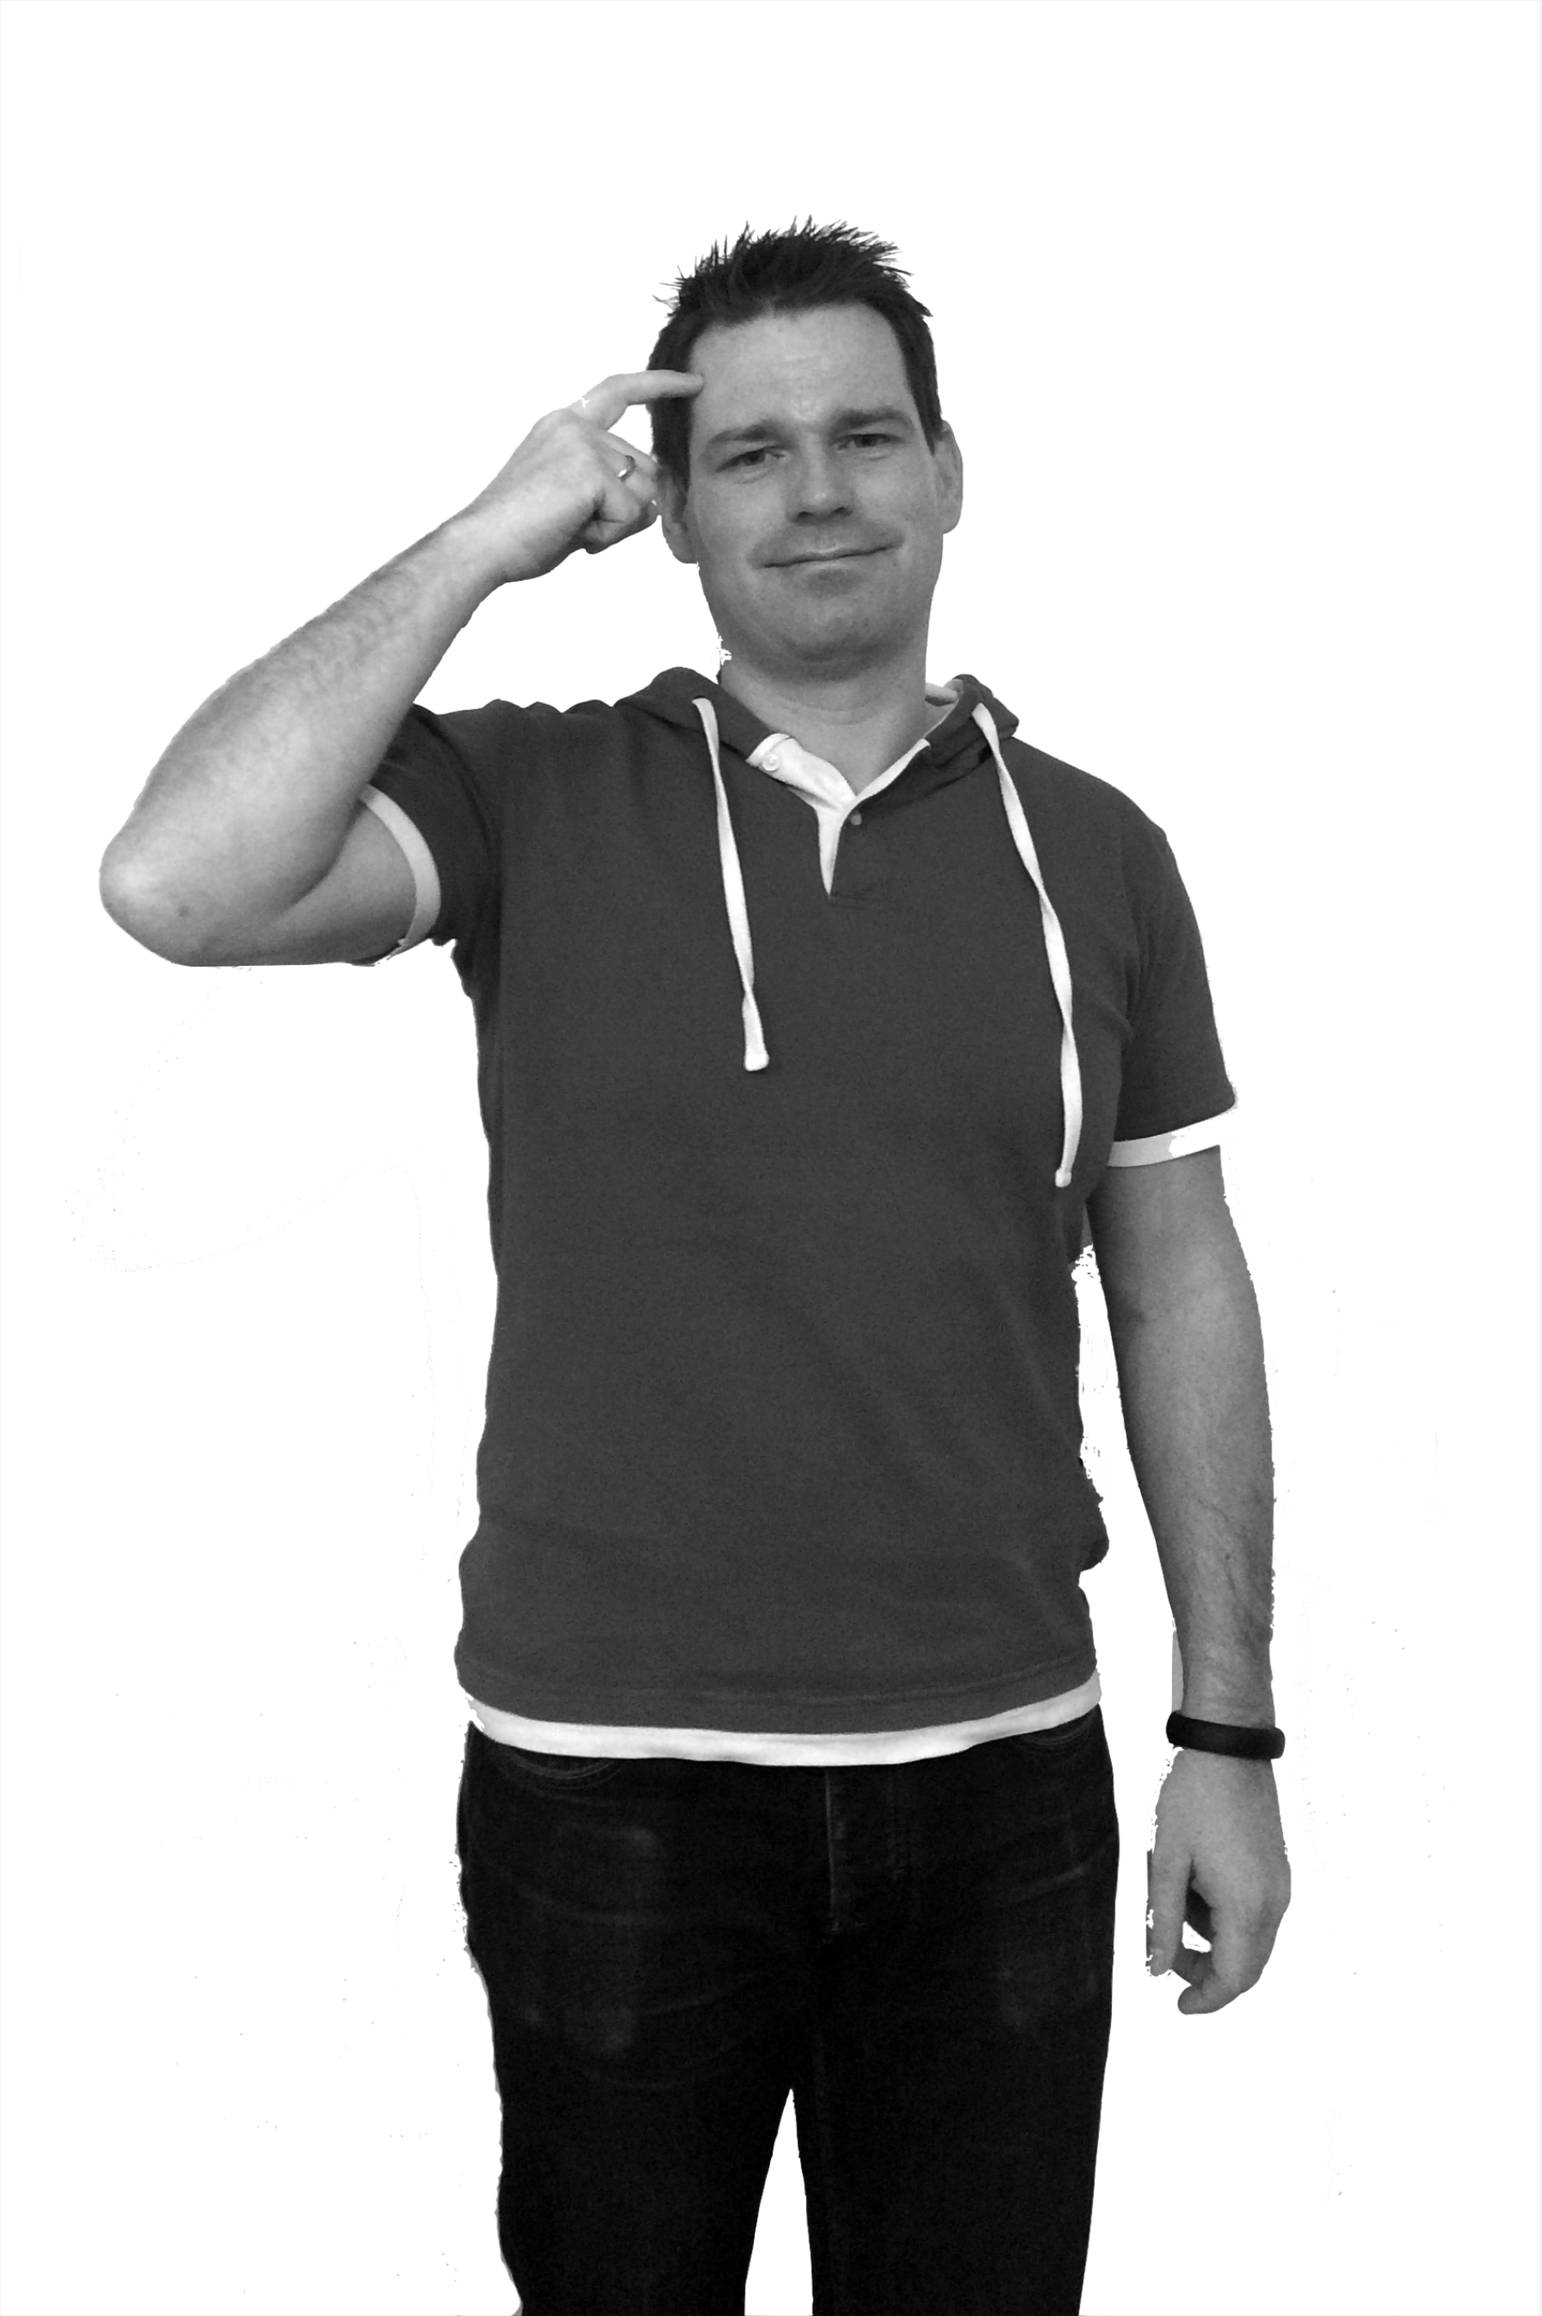
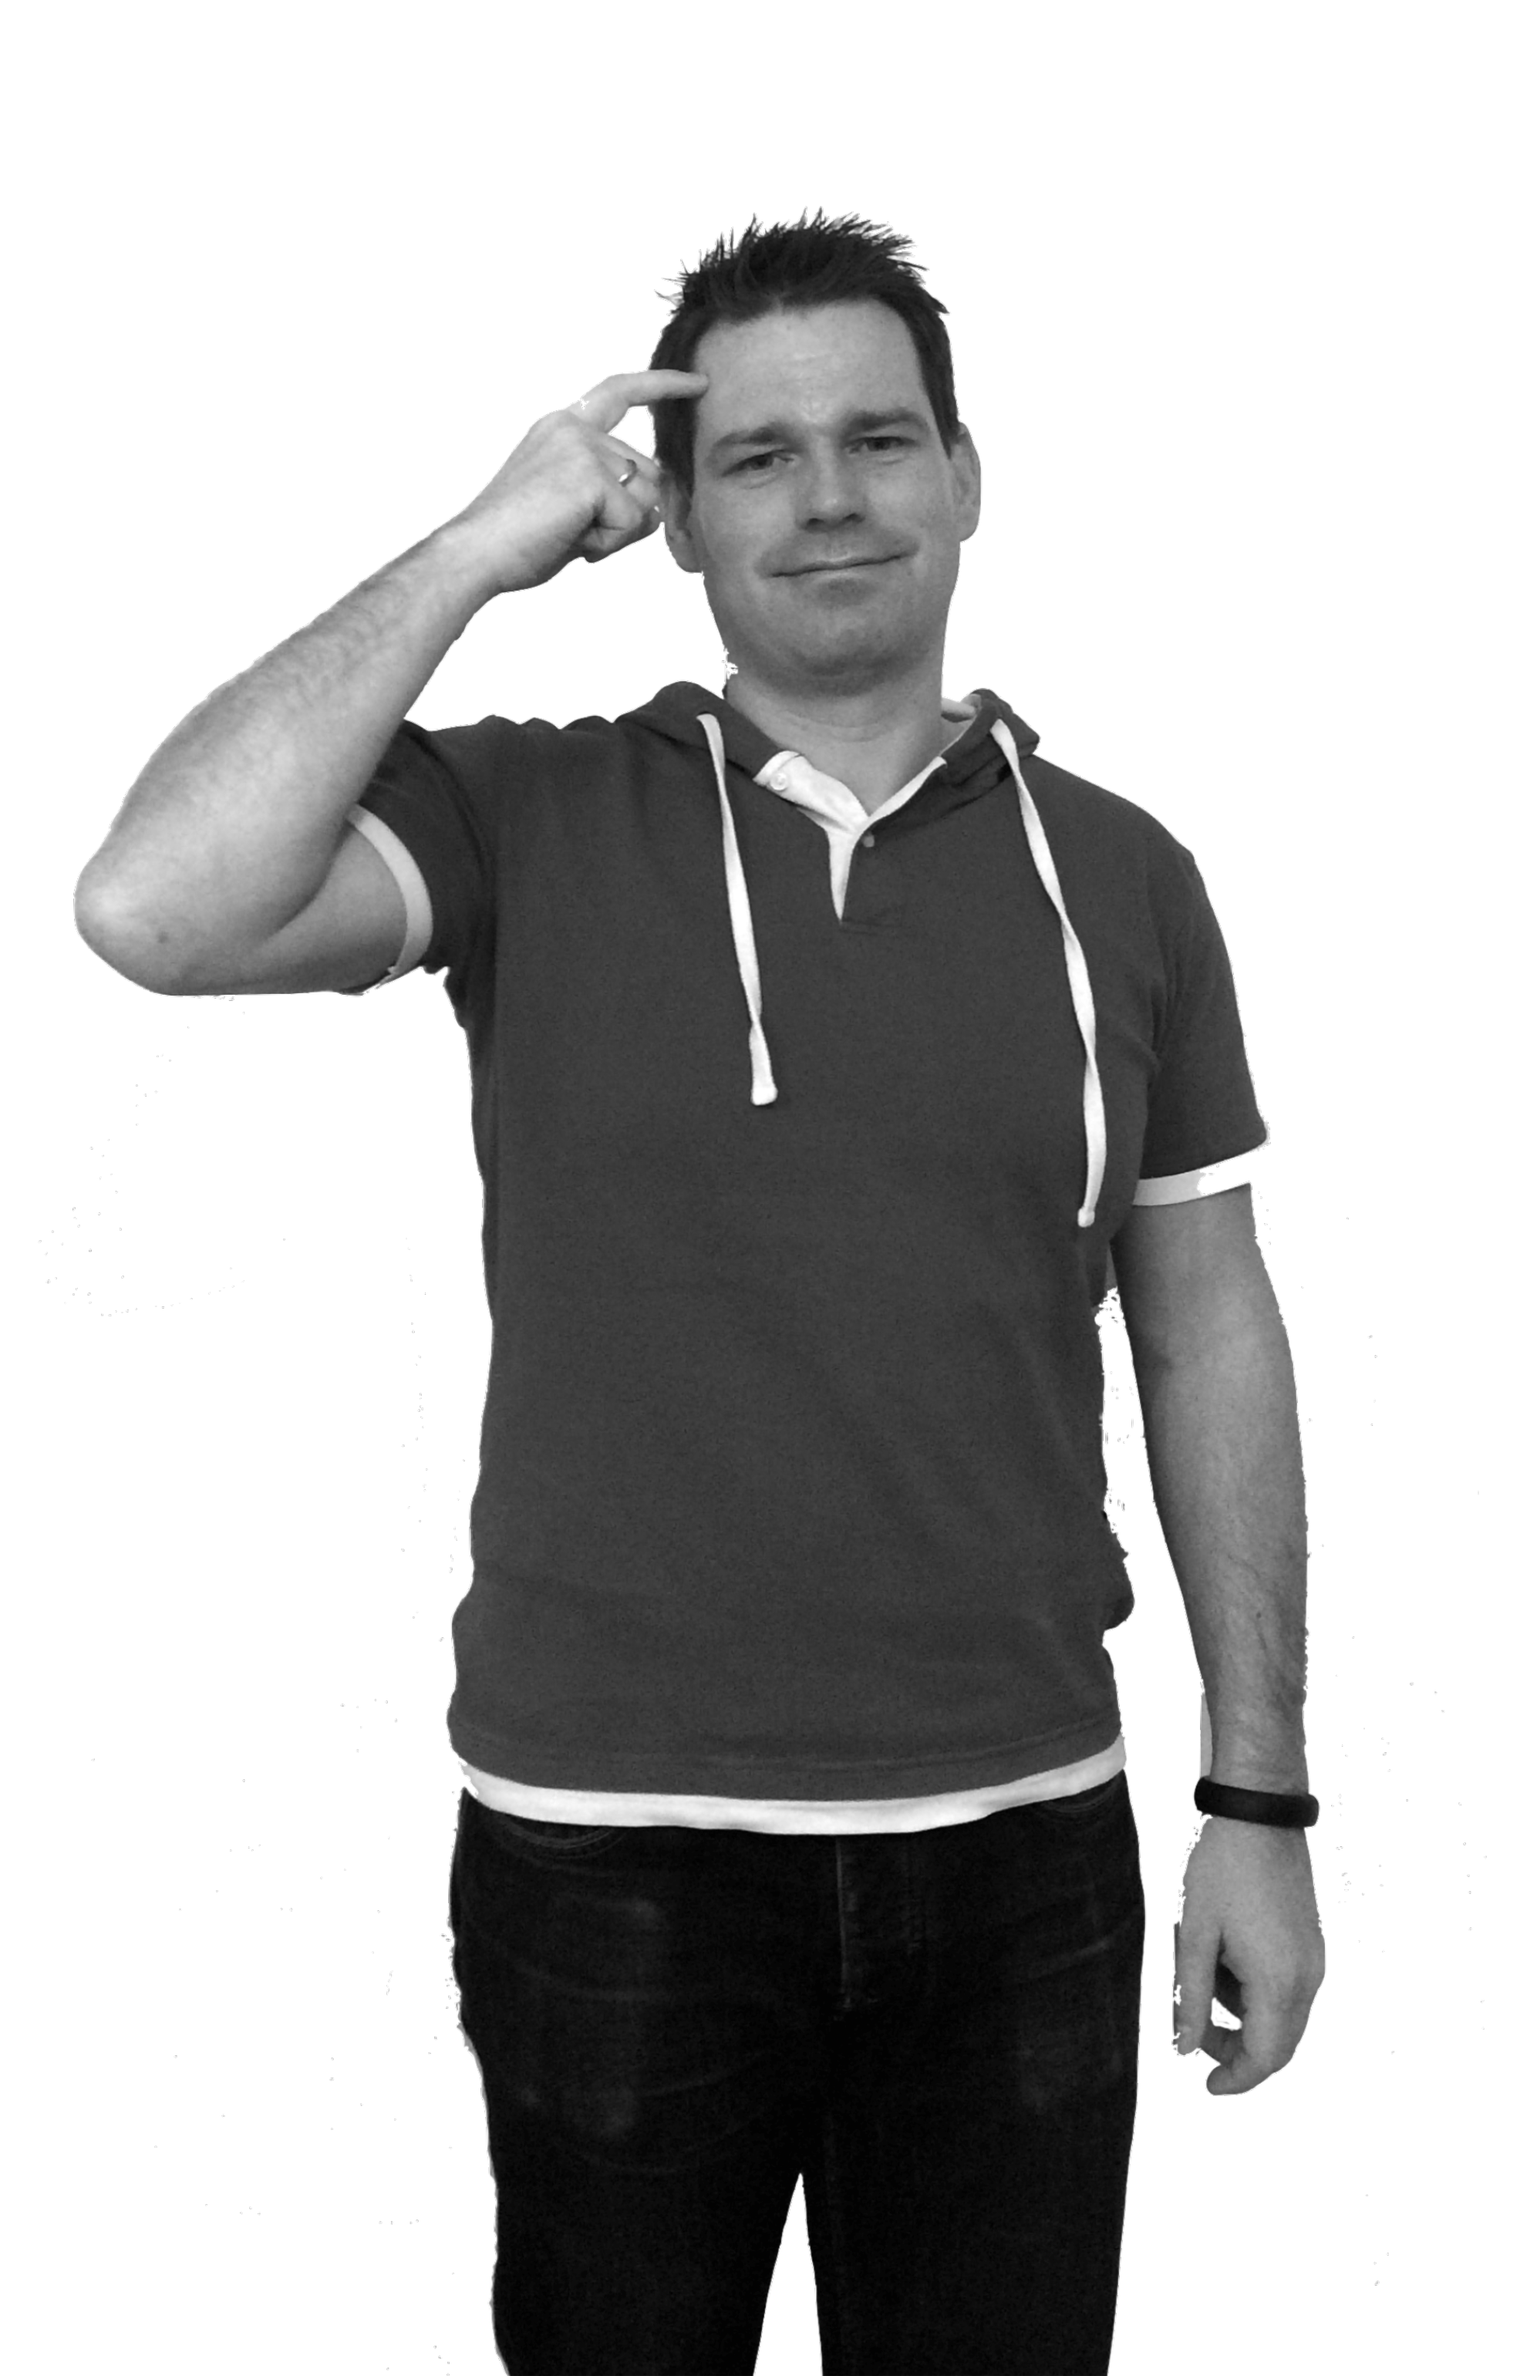
ready to deploy :D

diff --git a/src/main/webapp/sass/_sequence.scss b/src/main/webapp/sass/_sequence.scss
@@ -29,7 +29,7 @@
 		}
 	}
 	h2 {
-		font-size: 1.5em;
+		font-size: 1.6em;
 		line-height: 1.2em;
 	}
 	> .sequence-canvas {
@@ -53,9 +53,9 @@
                 @include span(5 of 12);
                     font-size: 1em;
                     line-height: 1.2em;
-                    top: 260px;
+                    top: 320px;
             }
-                top: 280px;
+                top: 290px;
                 right: 140%;
                 z-index: 10;
                 vertical-align: middle;
@@ -98,7 +98,7 @@
     .animate-in {
 
 		.me_image{
-			left: 10%;
+			left: 8%;
             transition-duration: 4s;
         	z-index: 4;
 		}
@@ -116,13 +116,13 @@
         @include span(6 of 12 last);
         @include susy-breakpoint($bp-medium, $susy) {
             @include span(5 of 12 last);
-            font-size: 1em;
+            font-size: 1.3em;
             line-height: 1.2em;
             top: 120px;
         }
         top: 30px;
  	    color: $black;
-        font-size: 0.7em;
+        font-size: 0.8em;
         right: 150%;
         z-index: 10;
         vertical-align: middle;

diff --git a/src/main/webapp/WEB-INF/pages/index.html b/src/main/webapp/WEB-INF/pages/index.html
@@ -60,9 +60,18 @@
             <div class="me_text">
                 <h2>Blog</h2>
 
-                <p>ksld</p>
+                <p>My blog is coming soon!</p>
             </div>
-            <img class="me_image" src="images/me_thinking_gray.png" alt="me_thinking"/>
+            <img class="me_image" src="images/me_blog_gray.png" alt="me_thinking"/>
+        </li>
+
+        <li>
+            <div class="me_text">
+                <h2>My hobbies and interests</h2>
+
+                <p>Coding, Squash, Jogging</p>
+            </div>
+            <img class="me_image" src="images/me_hobby_gray.png" alt="me_thinking"/>
         </li>
 
 
